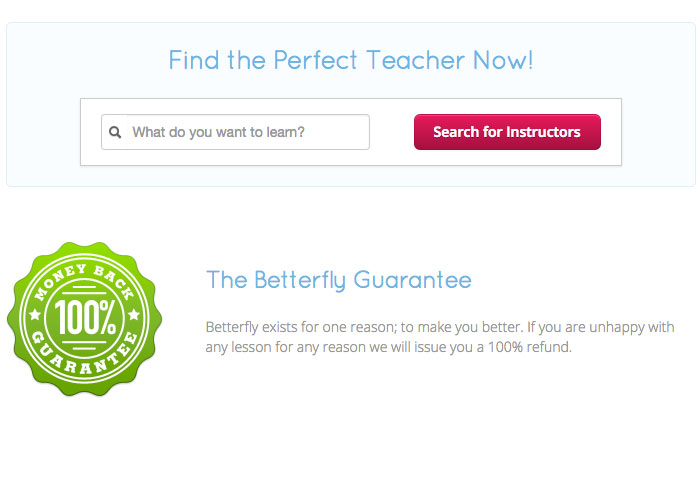
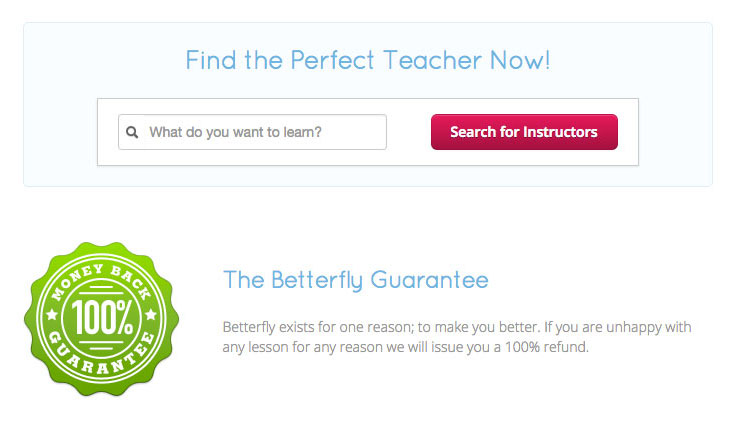
layout updates, breaking project header into module, copy updates, adding skills copy

diff --git a/src/_styles/pages/_project.scss b/src/_styles/pages/_project.scss
@@ -102,7 +102,6 @@
         margin-right: 5em;
         padding: $device-padding-vertical 0;
         width: $device-screen-width + (2 * $device-padding-horizontal);
-        z-index: 99999;
 
         img {
           display: none;
@@ -197,13 +196,34 @@
 
   .intro-image {
     text-align: center;
-    max-height: 40vh;
-    background-size: cover;
-    overflow: hidden;
-    transition: max-height .6s $base-timing;
 
-    &:hover {
-      max-height: 200vh;
+    .intro-image-wrap {
+      display: inline-block;
+      position: relative;
+      max-height: 40vh;
+      overflow: hidden;
+      transition: max-height .6s $base-timing;
+
+      &:after {
+        position: absolute;
+        top: 0;
+        right: 0;
+        bottom: 0;
+        left: 0;
+        display: block;
+        content: '';
+        @include background(linear-gradient(rgba($dark-gray, 0) 0%, rgba($dark-gray, 0) 55%, rgba($dark-gray, .2) 90%, rgba($dark-gray, .8) 100%), no-repeat);
+        opacity: 1;
+        transition: opacity .6s $base-timing;
+      }
+
+      &:hover {
+        max-height: 200vh;
+
+        &:after {
+          opacity: 0;
+        }
+      }
     }
 
     & + section {
@@ -232,7 +252,8 @@
   }
 
   .copy-wrapper {
-    line-height: 1.8em;
+    font-size: 1.05em;
+    line-height: 2em;
 
     @include media($screen-medium-up) {
       @include span-columns(8);
@@ -242,7 +263,8 @@
   .copy {
     @include span-columns(10);
     @include shift(1);
-    line-height: 1.8em;
+    font-size: 1.05em;
+    line-height: 2em;
 
     @include media($screen-medium-up) {
       @include span-columns(8);
@@ -254,6 +276,7 @@
     img {
       display: block;
       margin: 0 auto;
+      border: 1px solid $light-gray;
     }
   }
 

diff --git a/src/_styles/pages/_homepage.scss b/src/_styles/pages/_homepage.scss
@@ -1,8 +1,24 @@
 $things-i-am-height: 1em;
 $things-i-am-margin: .2em;
 
-.homepage .main {
-  text-align: center;
+.homepage {
+  .main {
+    text-align: center;
+
+    section {
+      h2 {
+        margin-top: 5vh;
+      }
+    }
+  }
+
+  .contact {
+    min-height: 100vh;
+
+    h2 {
+      margin-top: 10vh;
+    }
+  }
 }
 
 .welcome {
@@ -86,7 +102,7 @@ $things-i-am-margin: .2em;
   }
 }
 
-.expertise {
+.skills {
 }
 
 .t-bone-shaped-skills {

diff --git a/src/_modules/popover/popover.scss b/src/_modules/popover/popover.scss
@@ -35,4 +35,24 @@ $popover-trigger-size: 30px;
 .webui-popover {
   color: $dark-gray;
   @include shadow();
+  z-index: 1000;
+}
+
+.webui-popover-content {
+  max-width: 20em;
+
+  h5 {
+    color: $medium-gray;
+    display: inline-block;
+    margin: 0 5px 0 0;
+  }
+
+  @include media($screen-medium-up) {
+    max-width: 30em;
+  }
+}
+
+.webui-popover-title {
+  font-size: 1.3em;
+  line-height: 1;
 }

diff --git a/src/_styles/base/_variables.scss b/src/_styles/base/_variables.scss
@@ -6,6 +6,7 @@ $dark-gray: #424242;
 $medium-gray: #78909C;
 $light-gray: #E9E9E9;
 $bright-orange: #FF5722;
+$black: #000;
 
 // Font weights
 $normal: 400;

diff --git a/src/_styles/partials/_header.scss b/src/_styles/partials/_header.scss
@@ -3,7 +3,7 @@
   background: $bright-blue;
   width: 100%;
   top: 0;
-  z-index: 10;
+  z-index: 9000;
   height: $header-mobile-height;
 
   a {
